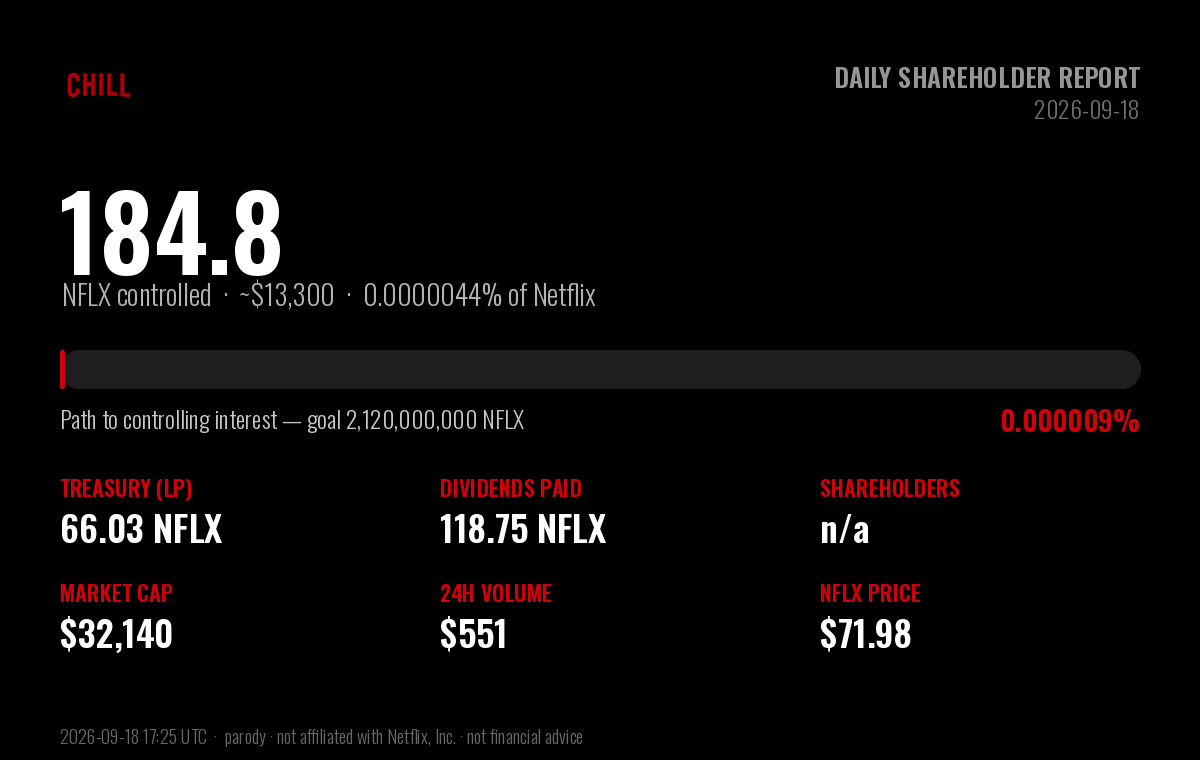
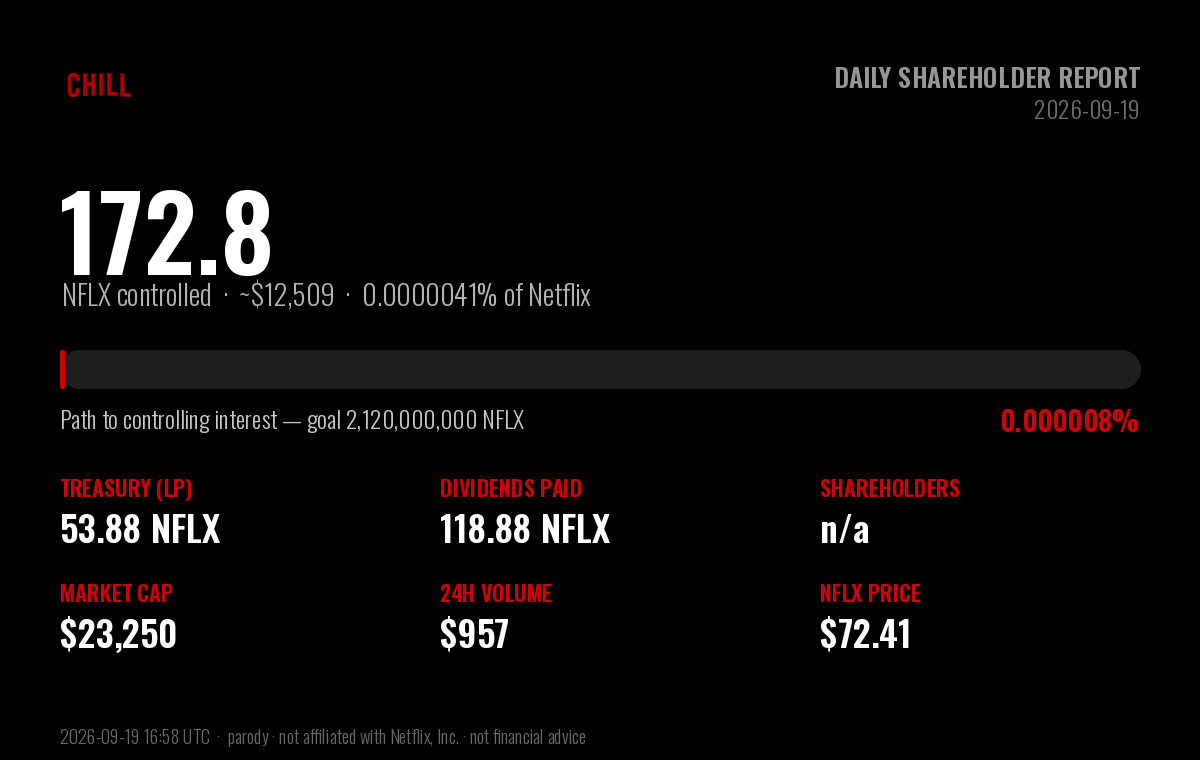
chore: daily $CHILL shareholder report (2026-09-19)

diff --git a/daily-holder-report/README.md b/daily-holder-report/README.md
@@ -1,6 +1,6 @@
 # $CHILL — Daily Shareholder Report
 
-### Netflix and Chill · Report to Shareholders · 2026-09-18
+### Netflix and Chill · Report to Shareholders · 2026-09-19
 
 > **Corporate objective:** acquire a controlling interest in Netflix (NFLX).
 > Netflix has **4,220,000,000** shares outstanding; a majority
@@ -13,53 +13,53 @@
 
 | Metric | Value |
 |---|---|
-| **NFLX under $CHILL control** | **184.78 NFLX** (~$13,300) |
-| Stake in Netflix | 0.000004379% of shares outstanding |
-| Progress to controlling interest | 0.0000087% of 2,120,000,000 |
-| Shares remaining to majority | 2,119,999,815 NFLX |
+| **NFLX under $CHILL control** | **172.76 NFLX** (~$12,509) |
+| Stake in Netflix | 0.000004094% of shares outstanding |
+| Progress to controlling interest | 0.0000081% of 2,120,000,000 |
+| Shares remaining to majority | 2,119,999,827 NFLX |
 
 ## Balance sheet — NFLX holdings
 
 | Holding | NFLX | USD |
 |---|---|---|
-| Treasury (protocol-owned liquidity) | 66.03 | $4,753 |
-| Dividends distributed to shareholders | 118.75 | $8,547 |
-| **Total NFLX controlled** | **184.78** | **$13,300** |
+| Treasury (protocol-owned liquidity) | 53.88 | $3,901 |
+| Dividends distributed to shareholders | 118.88 | $8,608 |
+| **Total NFLX controlled** | **172.76** | **$12,509** |
 
 ## Last 24 hours
 
 | Metric | Value |
 |---|---|
-| Trading volume | 7.66 NFLX (~$551) |
-| Net NFLX accumulated | -7.51 NFLX |
-| Dividends generated | 0.0766 NFLX |
-| Transactions | 10 (1 buys / 9 sells) |
-| $CHILL price change | -20.9% |
+| Trading volume | 13.22 NFLX (~$957) |
+| Net NFLX accumulated | -12.15 NFLX |
+| Dividends generated | 0.1322 NFLX |
+| Transactions | 9 (1 buys / 8 sells) |
+| $CHILL price change | -25.1% |
 
 ## Shareholder & market data
 
 | Metric | Value |
 |---|---|
 | Shareholders of record | n/a |
-| Lifetime unique participants | 1796 |
+| Lifetime unique participants | 1797 |
 | Shares outstanding ($CHILL) | 1,000,000,000 |
-| Market capitalization | $32,140 |
-| $CHILL price | $0.00003214 |
-| NFLX price | $71.98 |
-| Lifetime volume | 11,875.10 NFLX (~$854,745) |
-| Lifetime transactions | 8,496 (4,758 buys / 3,738 sells) |
-| Days since IPO (launch) | 61 |
+| Market capitalization | $23,250 |
+| $CHILL price | $0.00002325 |
+| NFLX price | $72.41 |
+| Lifetime volume | 11,888.32 NFLX (~$860,780) |
+| Lifetime transactions | 8,505 (4,759 buys / 3,746 sells) |
+| Days since IPO (launch) | 62 |
 
 ## Per-share metrics
 
 | Metric | Value |
 |---|---|
-| NFLX backing per 1M $CHILL | 0.184779 NFLX |
-| Dividends per 1M $CHILL | 0.118751 NFLX |
+| NFLX backing per 1M $CHILL | 0.172763 NFLX |
+| Dividends per 1M $CHILL | 0.118883 NFLX |
 
 ---
 
-*Report generated 2026-09-18 17:25 UTC · block 66,401,878 · data via the Sentry-Robinhood
+*Report generated 2026-09-19 16:58 UTC · block 67,243,375 · data via the Sentry-Robinhood
 subgraph and Robinhood Chain explorer.*
 
 **Disclaimer:** $CHILL is an independent, community-driven **parody** token. It is
